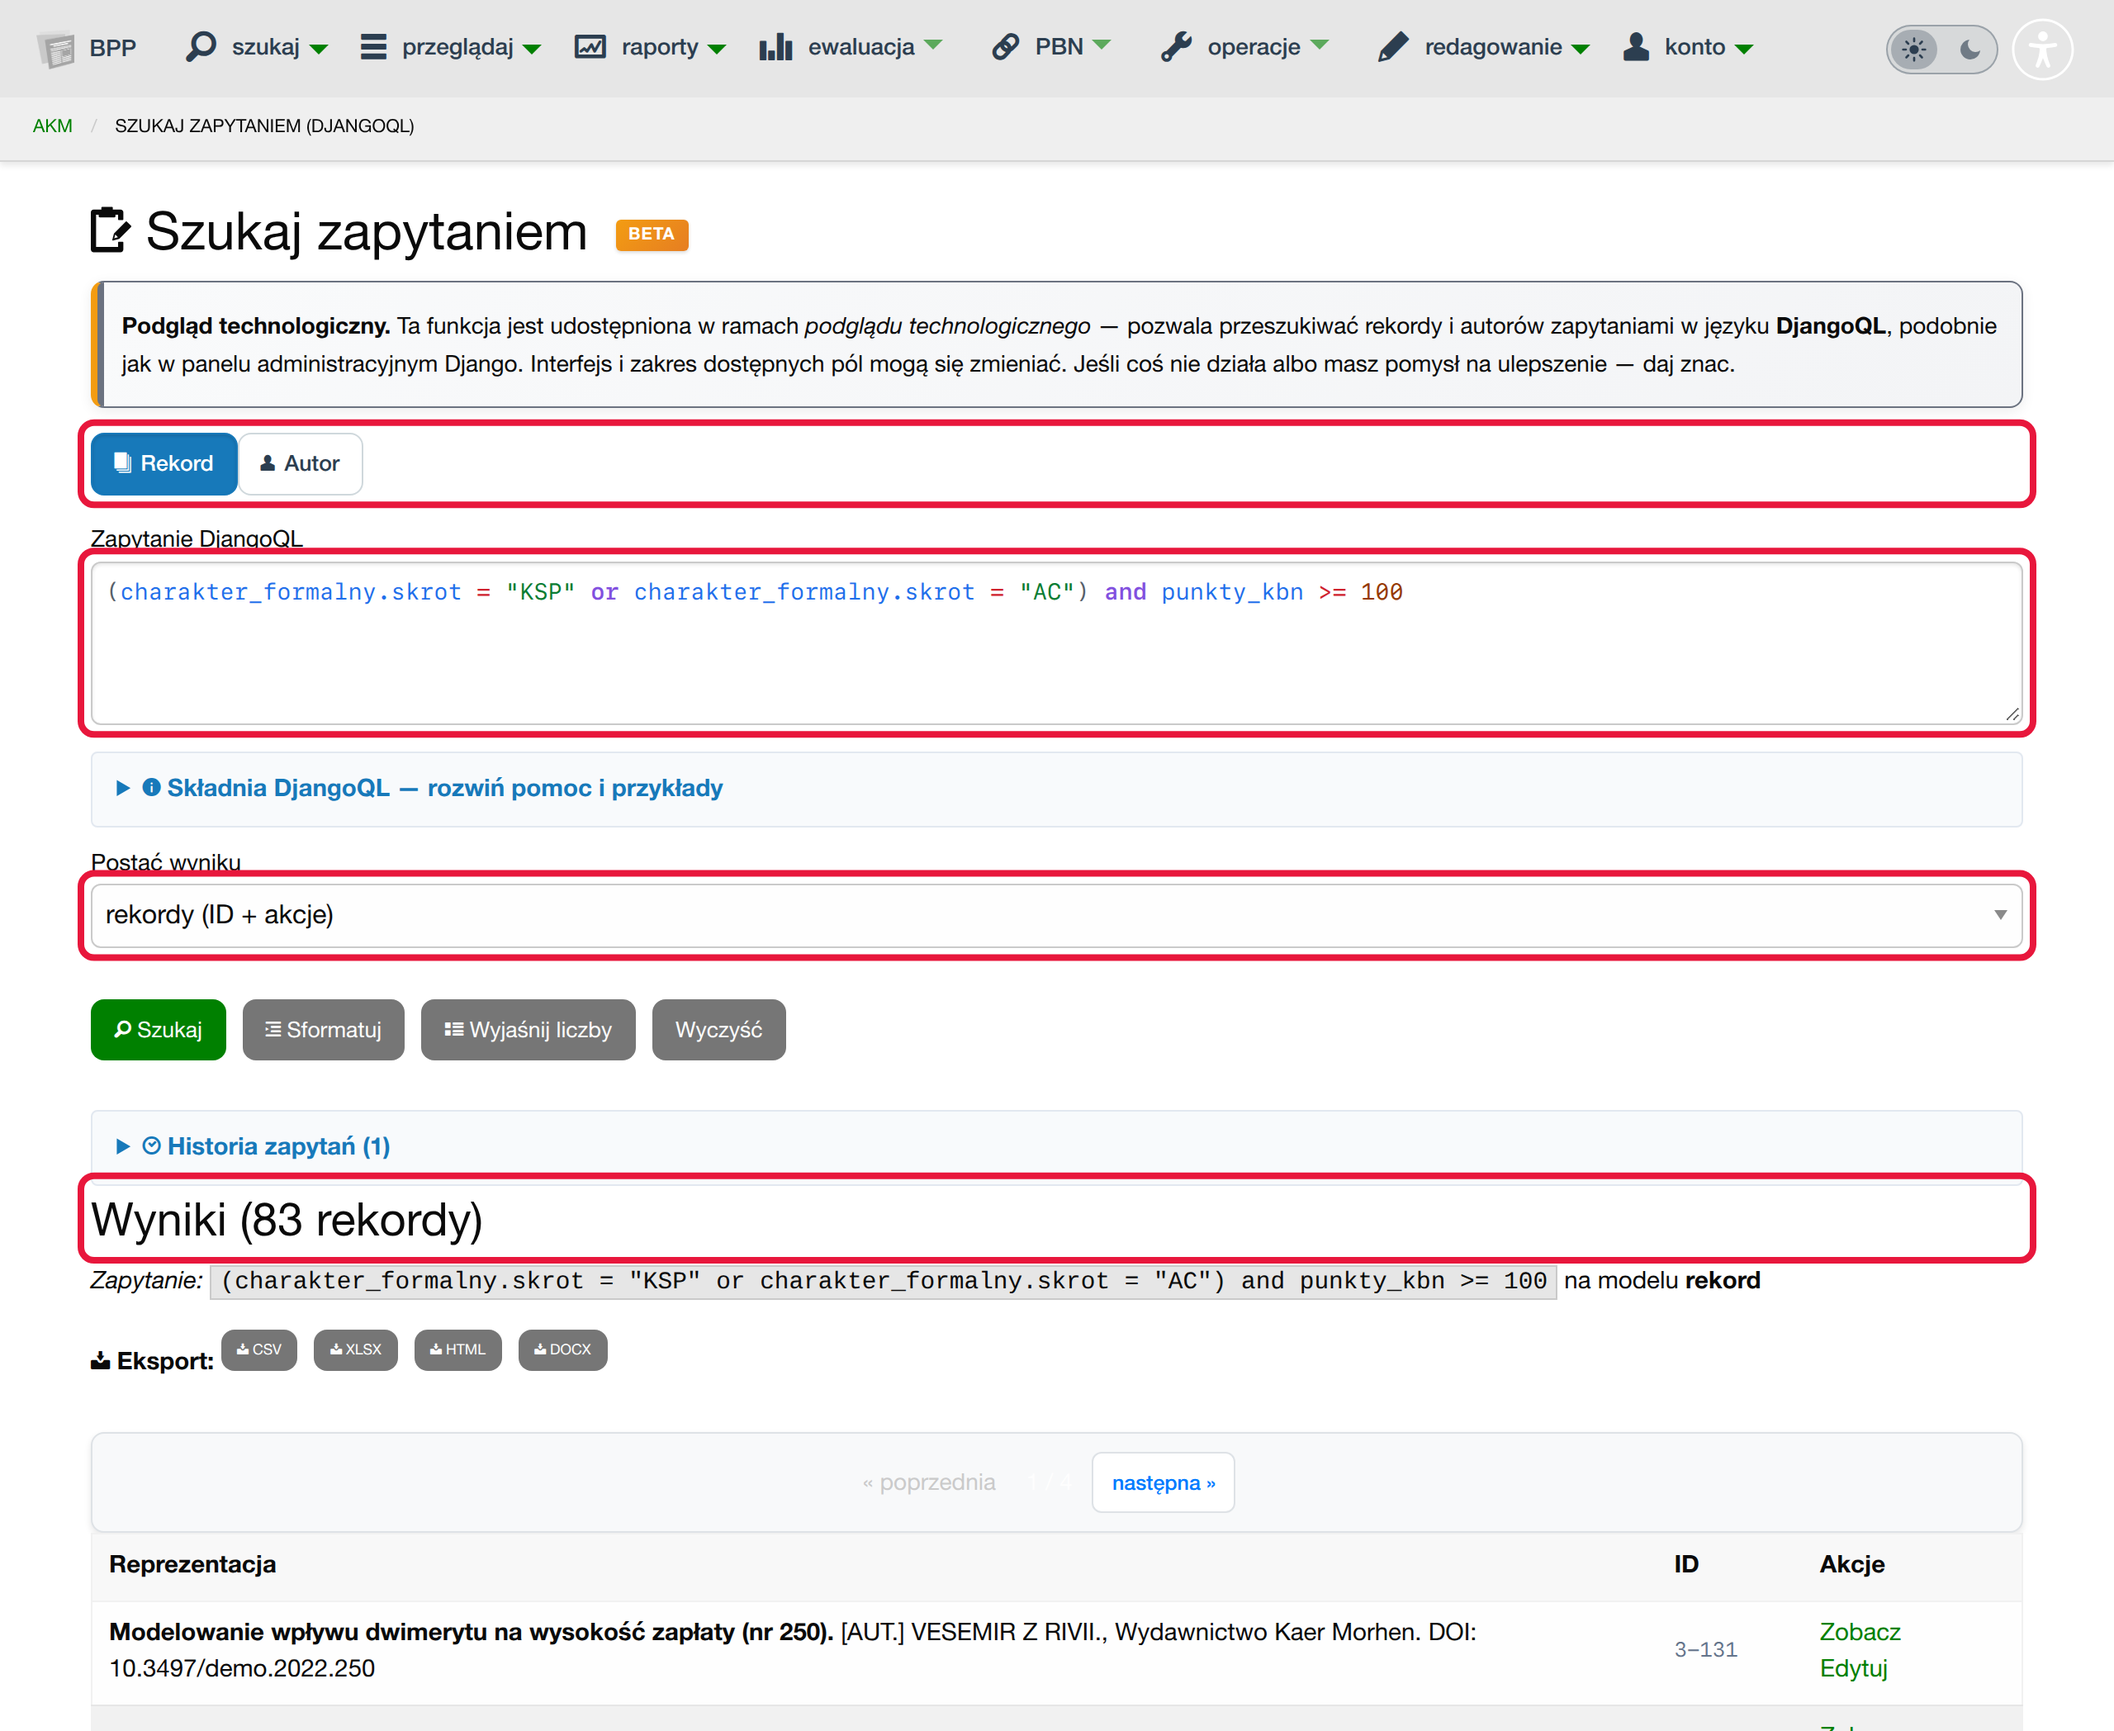
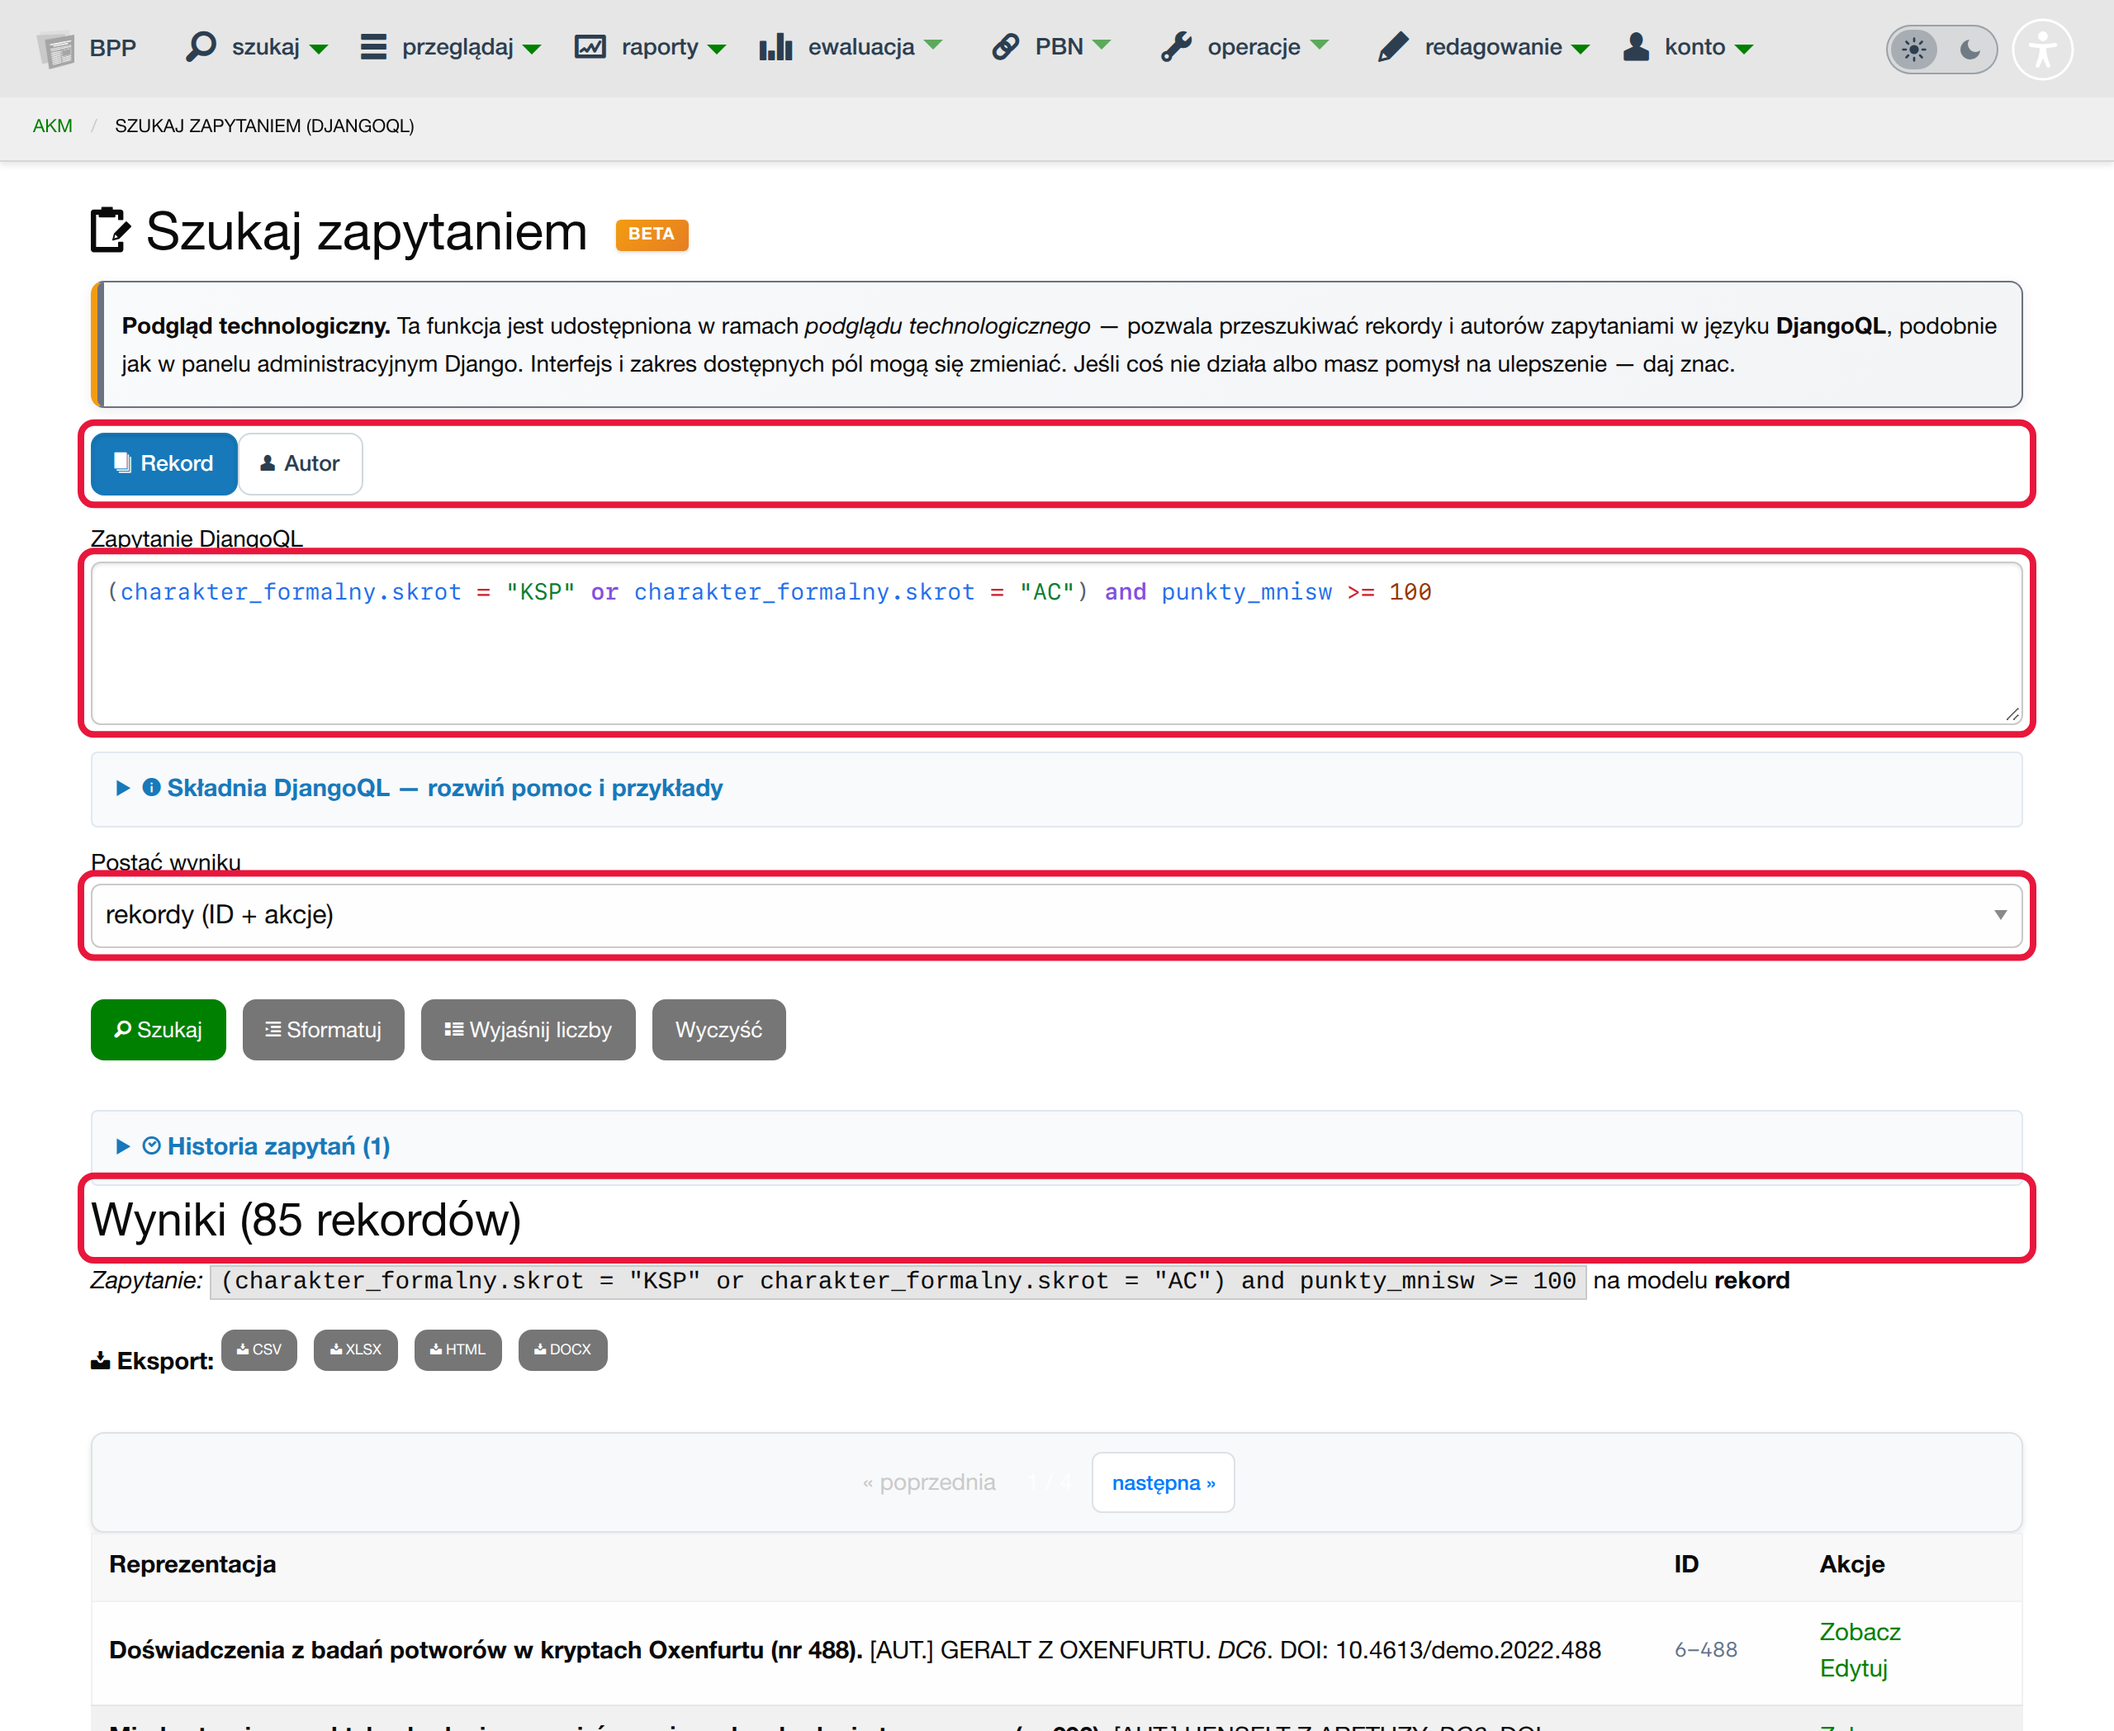
FD#527: samouczek DjangoQL na punkty_mnisw + zrzuty 10 i 13
Zapytania w docs/redaktor/wyszukiwanie-redagowanie.md i w scenariuszu
zrzutów używają punkty_mnisw; notka mówi, że dawne nazwy nadal działają.

Claude-Session: https://claude.ai/code/session_01Mr7s9oLHK52LLrZp7Fc2T4

diff --git a/bin/docs-screenshots.py b/bin/docs-screenshots.py
@@ -5548,7 +5548,7 @@ def redaktor_wyszukiwanie_redagowanie(page: Page, base: str, out: Path) -> None:
     # 10. the finished, more complex query
     zapytanie(
         '(charakter_formalny.skrot = "KSP" or charakter_formalny.skrot = "AC")'
-        " and punkty_kbn >= 100"
+        " and punkty_mnisw >= 100"
     )
     mark(
         red,
@@ -5585,7 +5585,7 @@ def redaktor_wyszukiwanie_redagowanie(page: Page, base: str, out: Path) -> None:
     # 13. the "Szukaj zapytaniem" page with a query and its result
     q = (
         '(charakter_formalny.skrot = "KSP" or charakter_formalny.skrot = "AC")'
-        " and punkty_kbn >= 100"
+        " and punkty_mnisw >= 100"
     )
     red.goto(f"{base}/bpp/zapytanie/?model=rekord&query={quote(q)}")
     red.wait_for_load_state("networkidle")

diff --git a/docs/redaktor/wyszukiwanie-redagowanie.md b/docs/redaktor/wyszukiwanie-redagowanie.md
@@ -93,16 +93,13 @@ obiektu „Charakter formalny”, po których można wyszukiwać:
 Dokończmy zapytanie:
 
 ``` python
-(charakter_formalny.skrot = "KSP" or charakter_formalny.skrot = "AC") and punkty_kbn >= 100
+(charakter_formalny.skrot = "KSP" or charakter_formalny.skrot = "AC") and punkty_mnisw >= 100
 ```
 
-!!! note "`punkty_kbn` czy `punkty_mnisw`?"
-    Punkty MNiSW i typ MNiSW mają w zapytaniach po dwie nazwy:
-    dawną (`punkty_kbn`, `typ_kbn`) i nową (`punkty_mnisw`, `typ_mnisw`).
-    Obie znaczą dokładnie to samo i można je mieszać —
-    `punkty_mnisw >= 100` daje ten sam wynik co `punkty_kbn >= 100`,
-    a `typ_mnisw.skrot = "PO"` ten sam co `typ_kbn.skrot = "PO"`.
-    Zapytania zapisane wcześniej działają bez zmian.
+!!! note "Dawne nazwy pól"
+    Dawne nazwy `punkty_kbn` i `typ_kbn` nadal działają i znaczą dokładnie
+    to samo co `punkty_mnisw` i `typ_mnisw` — zapisanych zapytań nie trzeba
+    poprawiać.
 
 Jak widać na zrzucie ekranu poniżej, zadziałało ono:
 
@@ -244,7 +241,7 @@ Oznacza to, że ciąg warunków połączonych `and` jest traktowany jak jedna
 całość:
 
 ``` python
-rok = 2024 and charakter_formalny.skrot = "KSP" and punkty_kbn >= 100
+rok = 2024 and charakter_formalny.skrot = "KSP" and punkty_mnisw >= 100
 ```
 
 To zapytanie wyszuka prace z 2024 roku, z charakterem formalnym „KSP”, czyli
@@ -254,7 +251,7 @@ Dołożenie operatora `or` do takiego ciągu warunków może nie dać dobrych
 efektów:
 
 ``` python
-rok = 2024 or rok = 2025 and charakter_formalny.skrot = "KSP" and punkty_kbn >= 100
+rok = 2024 or rok = 2025 and charakter_formalny.skrot = "KSP" and punkty_mnisw >= 100
 ```
 
 Takie zapytanie znajdzie **wszystkie** rekordy z 2024 roku oraz prace z 2025
@@ -277,7 +274,7 @@ dodawanie. Porównajmy pierwsze zapytanie:
 Na pierwszy rzut oka widać, co trzeba zrobić — dodać nawiasy:
 
 ``` python
-(rok = 2024 or rok = 2025) and charakter_formalny.skrot = "KSP" and punkty_kbn >= 100
+(rok = 2024 or rok = 2025) and charakter_formalny.skrot = "KSP" and punkty_mnisw >= 100
 ```
 
 Analogicznie w przykładzie matematycznym:
